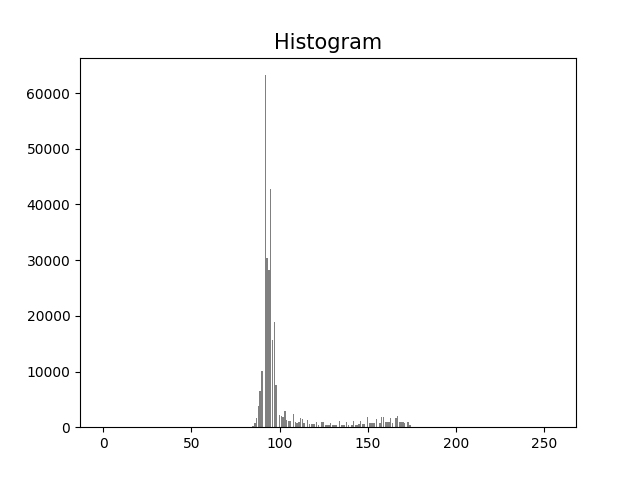
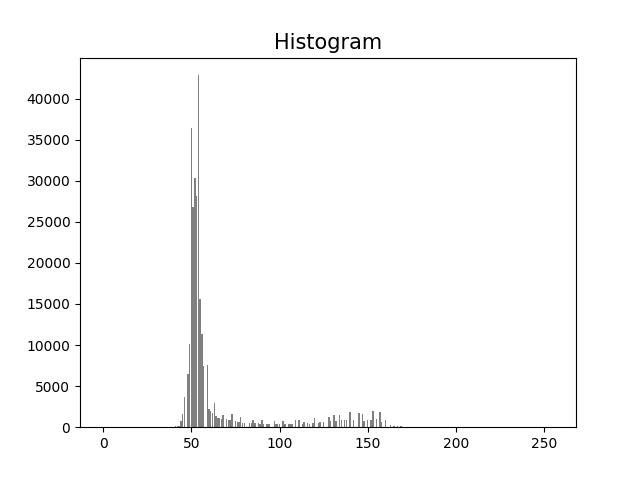
Log2 Feature

diff --git a/main.py b/main.py
@@ -63,6 +63,8 @@ def apply():
     img_now = img.gama_apply(gama)
     if check_neg.get() == 1:
         img_now = img.negative_image()
+    if check_log.get() == 1:
+        img_now = img.log_apply()
 
     # atualiza a imagem na tela auxiliar
     img_s = ImageTk.PhotoImage(img_now)
@@ -78,6 +80,7 @@ def apply():
     scl_brigh.set(100)
     scl_gama.set(100)
     box_negative.deselect()
+    box_log.deselect()
 
 
 """
@@ -95,6 +98,8 @@ def test(*args):
     img_test = img.gama_test(img_test, gama)
     if check_neg.get() == 1:
         img_test = img.negative_image_test(img_test)
+    if check_log.get() == 1:
+        img_test = img.log_test(img_test)
 
     img_test = img.convert(img_test)
 
@@ -102,6 +107,7 @@ def test(*args):
     img_s = ImageTk.PhotoImage(img_test)
     lbl_img.configure(image=img_s)
     lbl_img.image = img_s
+
 
 # janela principal do programa
 root = Tk()
@@ -133,7 +139,8 @@ frm3 = Frame(root)
 frm3.pack(side=BOTTOM, padx=15, pady=15)
 lbl_brightness = Label(frm3, text='Brightness')
 lbl_brightness.pack(side=tk.TOP)
-scl_brigh = Scale(frm3, from_=0, to=300, orient=HORIZONTAL, length=400, command=test)
+scl_brigh = Scale(frm3, from_=0, to=300, orient=HORIZONTAL,
+                  length=400, command=test)
 scl_brigh.set(100)
 scl_brigh.pack(side=tk.BOTTOM, padx=10)
 
@@ -142,7 +149,8 @@ frm4 = Frame(root)
 frm4.pack(side=BOTTOM, padx=15, pady=15)
 lbl_gama = Label(frm4, text='Gama')
 lbl_gama.pack(side=tk.TOP)
-scl_gama = Scale(frm4, from_=0, to=300, orient=HORIZONTAL, length=400, command=test)
+scl_gama = Scale(frm4, from_=0, to=300, orient=HORIZONTAL,
+                 length=400, command=test)
 scl_gama.set(100)
 scl_gama.pack(side=tk.BOTTOM, padx=10)
 
@@ -150,8 +158,13 @@ scl_gama.pack(side=tk.BOTTOM, padx=10)
 frm5 = Frame(root)
 frm5.pack(side=BOTTOM, padx=15, pady=15)
 check_neg = IntVar()
-box_negative = Checkbutton(frm5, text="Negative Image", variable=check_neg, command=test)
-box_negative.pack(side=tk.TOP)
+box_negative = Checkbutton(frm5, text="Negative Image",
+                           variable=check_neg, command=test)
+box_negative.pack(side=tk.LEFT)
+
+check_log = IntVar()
+box_log = Checkbutton(frm5, text="Log2", variable=check_log, command=test)
+box_log.pack(side=tk.RIGHT)
 
 
 root.mainloop()

diff --git a/img.py b/img.py
@@ -55,6 +55,14 @@ class Img():
         self.return_img = temp_img
         return self.return_img
 
+    def log_test(self, array):
+        temp_img = array/255
+        temp_img = np.log2(1 + temp_img)
+        temp_img = np.clip(temp_img, 0, 1)
+        temp_img = (temp_img * 255).astype(np.uint8)
+        self.return_img = temp_img
+        return self.return_img
+
     def convert(self, array):
         return Image.fromarray(array)
 
@@ -78,6 +86,14 @@ class Img():
     def gama_apply(self, num):
         temp_img = self.img_now/255
         temp_img = temp_img**num
+        temp_img = np.clip(temp_img, 0, 1)
+        temp_img = (temp_img * 255).astype(np.uint8)
+        self.img_now = temp_img
+        return Image.fromarray(self.img_now)
+
+    def log_apply(self):
+        temp_img = self.img_now/255
+        temp_img = np.log2(1+temp_img)
         temp_img = np.clip(temp_img, 0, 1)
         temp_img = (temp_img * 255).astype(np.uint8)
         self.img_now = temp_img
